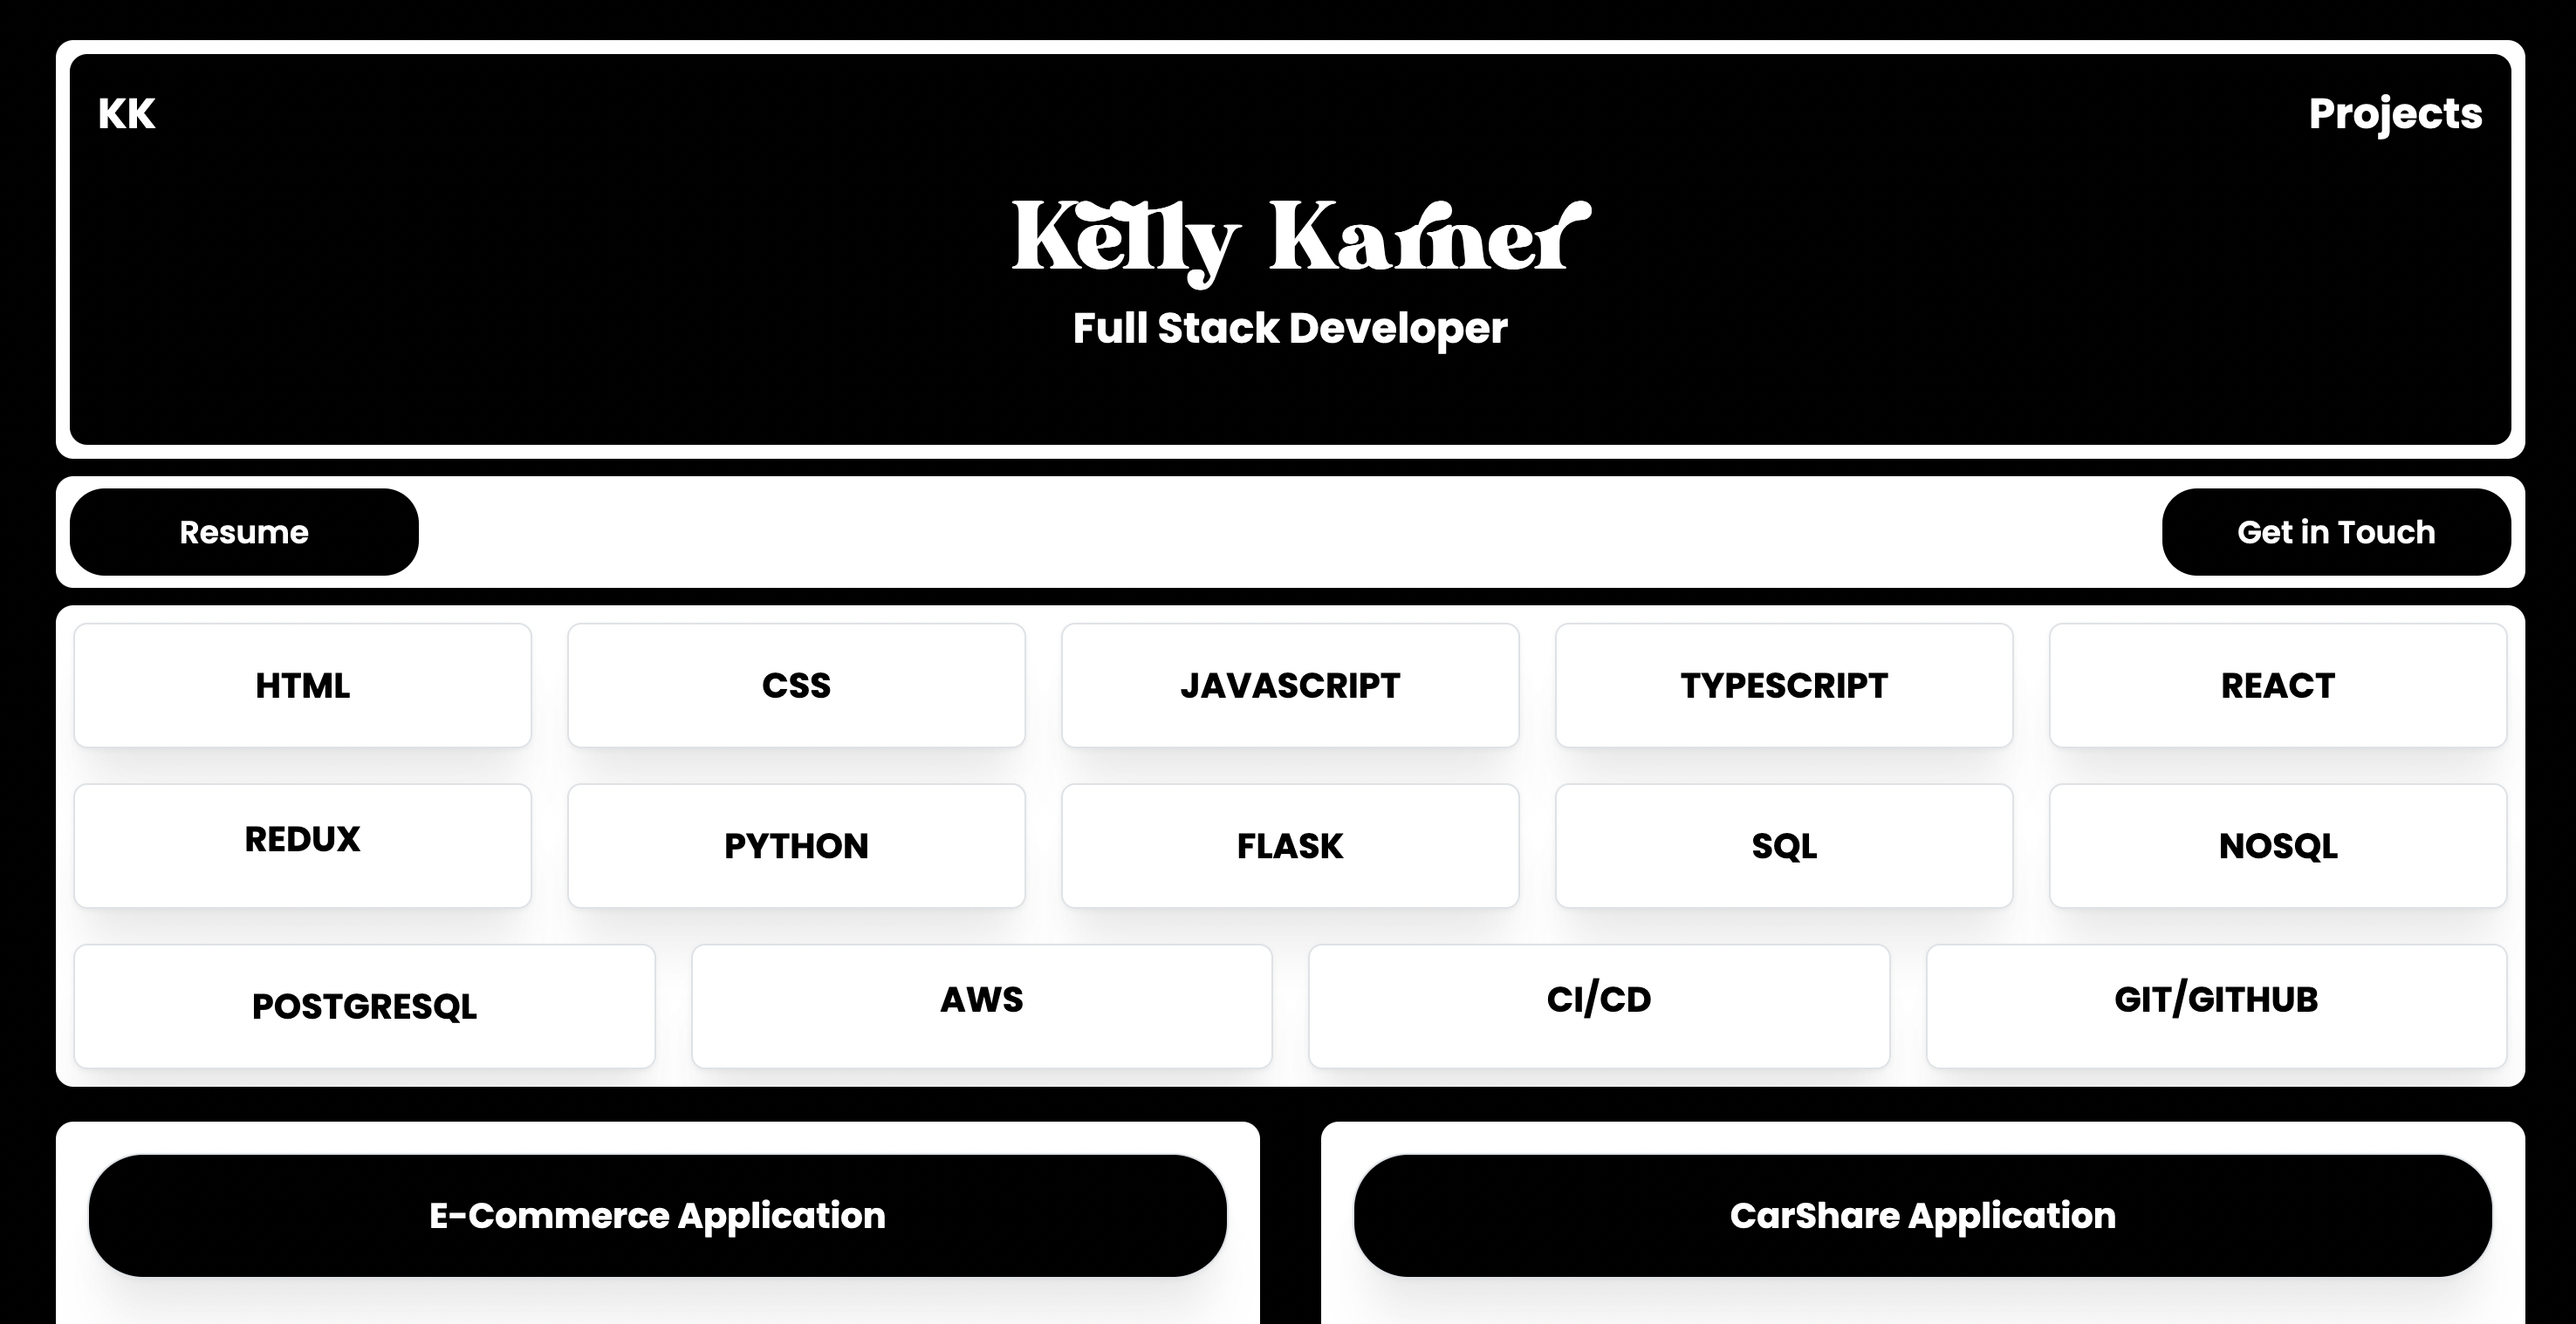
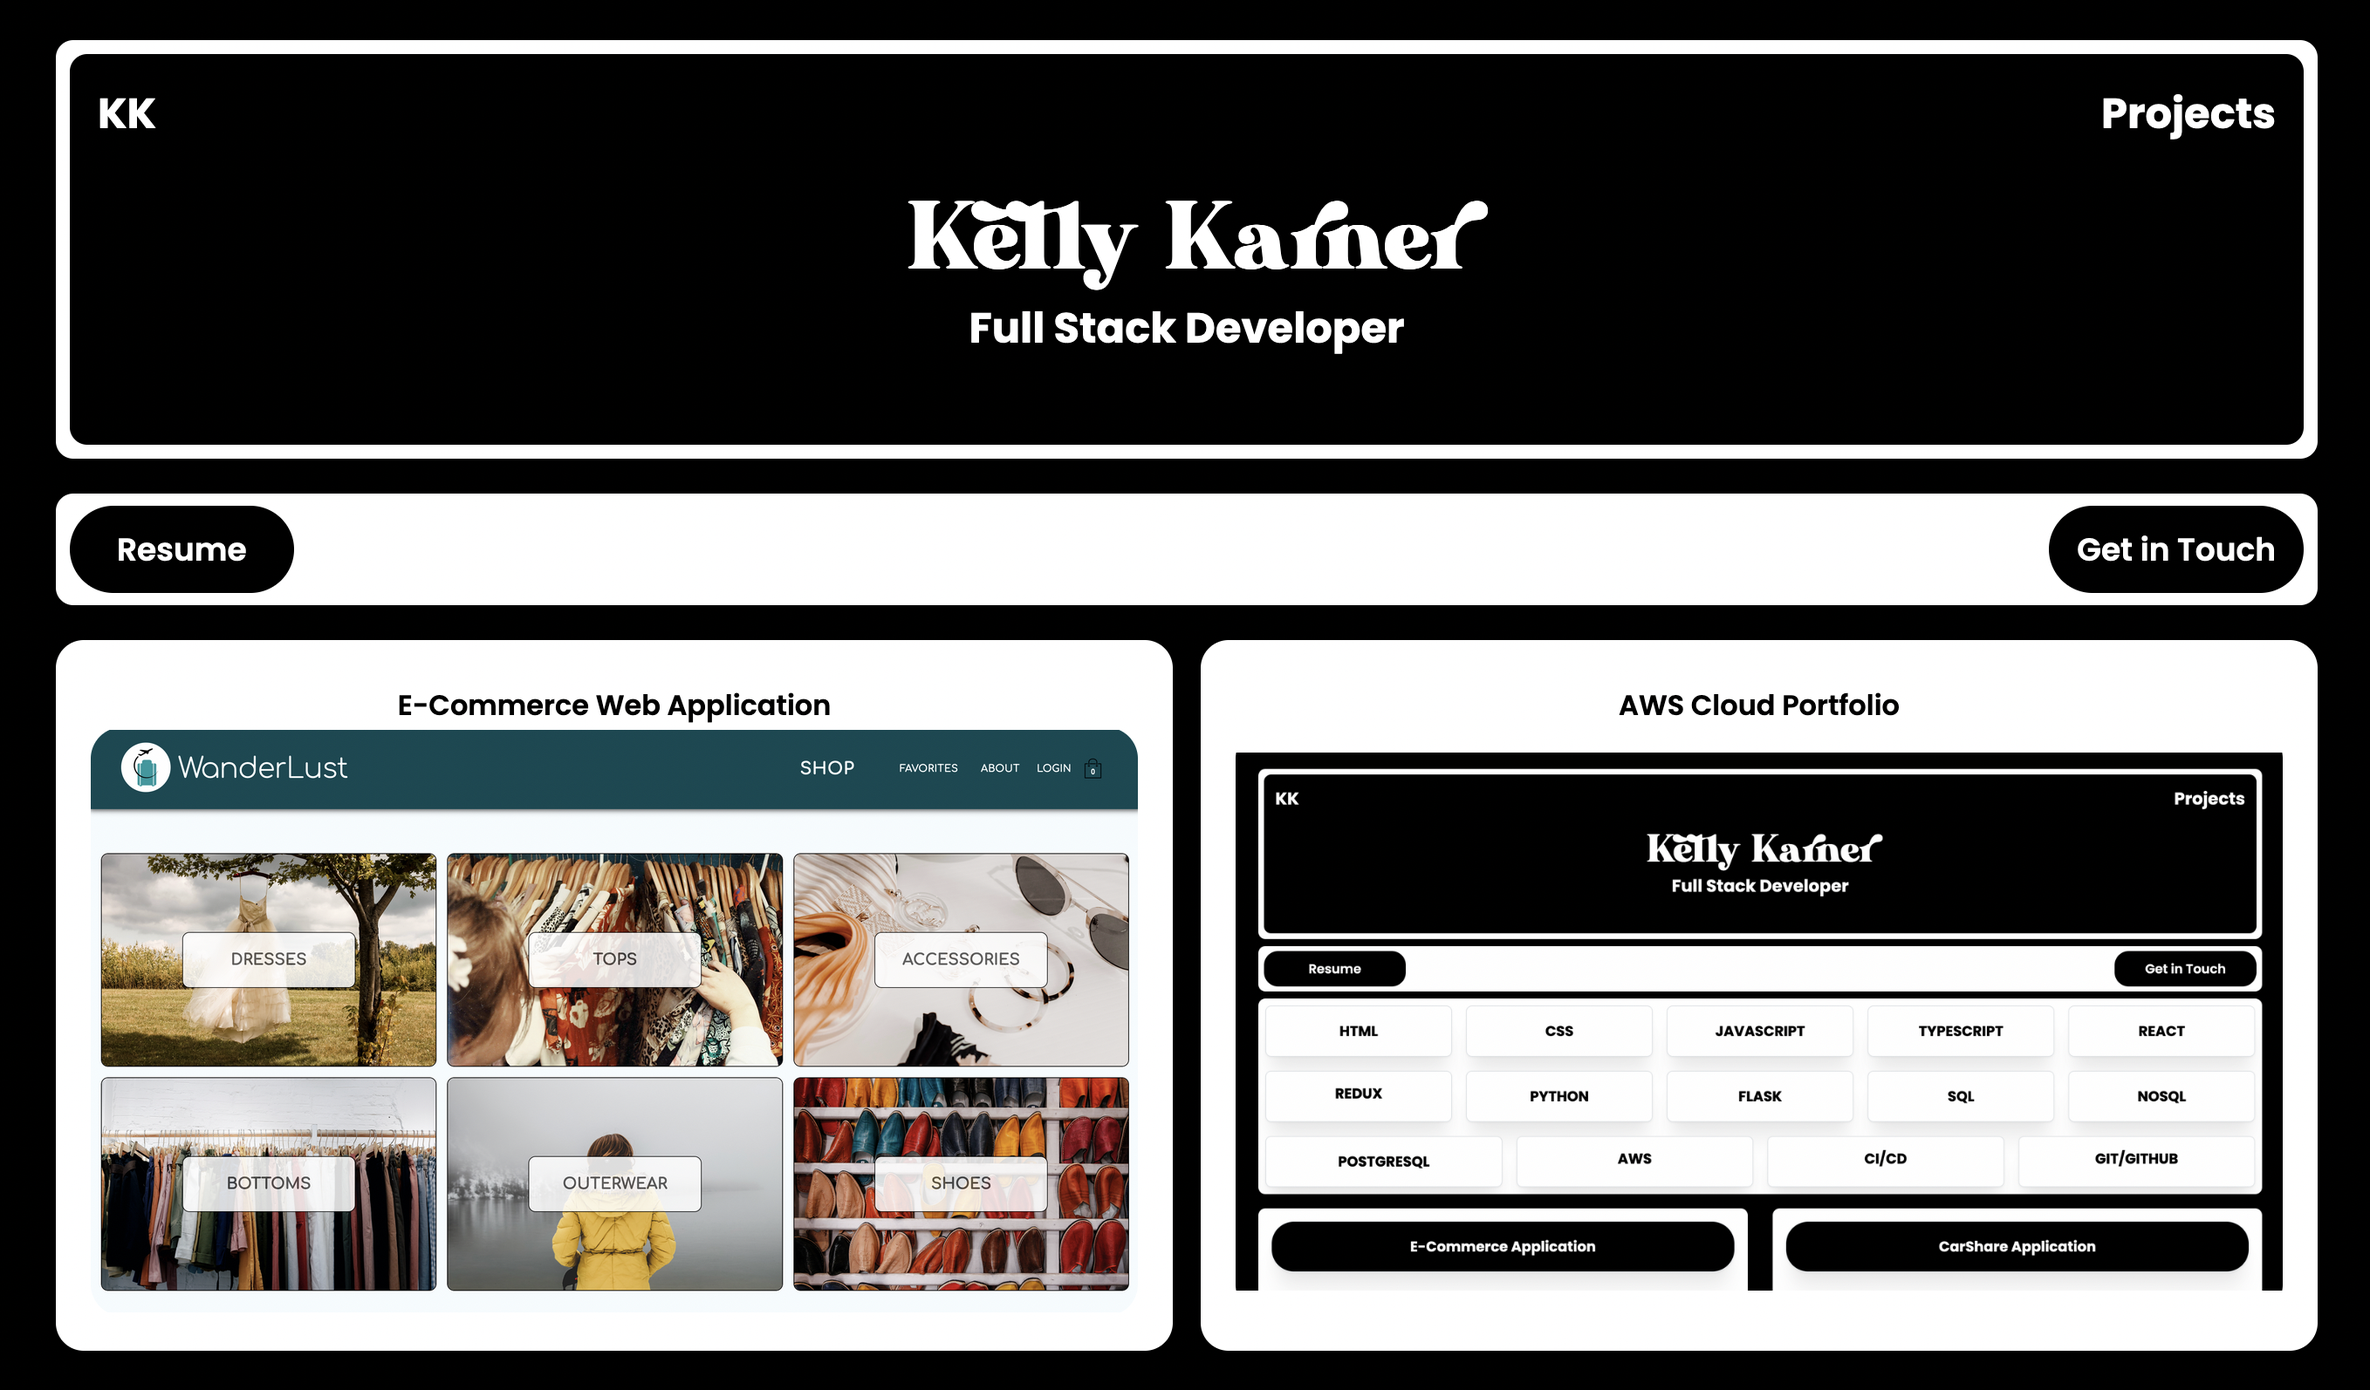
added Contact Form

diff --git a/src/GetInTouch/GetInTouch.tsx b/src/GetInTouch/GetInTouch.tsx
@@ -1,0 +1,139 @@
+import React from 'react';
+import {
+  createStyles,
+  Text,
+  Title,
+  SimpleGrid,
+  TextInput,
+  Textarea,
+  Button,
+  Group,
+  ActionIcon,
+  rem,
+} from '@mantine/core';
+import { IconBrandLinkedin, IconBrandInstagram, IconBrandGithub } from '@tabler/icons-react';
+
+
+const useStyles = createStyles((theme) => ({
+  wrapper: {
+    minHeight: 400,
+    boxSizing: 'border-box',
+    justifyContent: 'center',
+    // backgroundImage: `linear-gradient(-60deg, ${theme.colors[theme.primaryColor][4]} 0%, ${
+    //   theme.colors[theme.primaryColor][7]
+    // } 100%)`,
+    borderRadius: theme.radius.lg,
+    padding: `calc(${theme.spacing.xl} * 2.5) 0`,
+
+    [theme.fn.smallerThan('sm')]: {
+      padding: `calc(${theme.spacing.xl} * 1.5)`,
+    },
+  },
+
+  title: {
+    fontFamily: `Poppins, ${theme.fontFamily}`,
+    color: theme.white,
+    lineHeight: 1,
+  },
+
+  description: {
+    color: theme.colors[theme.primaryColor][0],
+    maxWidth: rem(300),
+
+    [theme.fn.smallerThan('sm')]: {
+      maxWidth: '100%',
+    },
+  },
+
+  form: {
+    backgroundColor: theme.white,
+    padding: theme.spacing.xl,
+    borderRadius: theme.radius.md,
+    boxShadow: theme.shadows.lg,
+  },
+
+  social: {
+    color: theme.white,
+
+    '&:hover': {
+      color: 'aqua',
+    },
+ 
+  },
+
+  input: {
+    backgroundColor: theme.white,
+    borderColor: theme.colors.gray[4],
+    color: theme.black,
+
+    '&::placeholder': {
+      color: theme.colors.gray[5],
+    },
+  },
+
+  inputLabel: {
+    color: theme.black,
+  },
+
+  control: {
+    backgroundColor: 'black',
+    borderRadius: '25px',
+    color: 'white',
+    width: '100%',
+  },
+}));
+
+const social = [IconBrandLinkedin, IconBrandGithub, IconBrandInstagram];
+
+export const GetInTouch = () => {
+  const { classes } = useStyles();
+
+  const icons = social.map((Icon, index) => (
+    <ActionIcon key={index} size={50} className={classes.social} variant="transparent">
+      <Icon size="2.5rem" stroke={2} />
+    </ActionIcon>
+  ));
+  return (
+        <div className={classes.wrapper}>
+      <SimpleGrid cols={2} spacing={50} breakpoints={[{ maxWidth: 'sm', cols: 1 }]}>
+        <div>
+          <Title className={classes.title}>Contact me</Title>
+          <Text className={classes.description} mt="sm" mb={30}>
+            Leave your email and a message, and I will get back to you within 24 hours
+          </Text>
+
+          {/* <ContactIconsList variant="white" /> */}
+
+          <Group mt="xl">{icons}</Group>
+        </div>
+        <div className={classes.form}>
+          <TextInput
+            label="Email"
+            placeholder="your@email.com"
+            required
+            classNames={{ input: classes.input, label: classes.inputLabel }}
+          />
+          <TextInput
+            label="Name"
+            placeholder="Betty Boop"
+            mt="md"
+            classNames={{ input: classes.input, label: classes.inputLabel }}
+          />
+          <Textarea
+            required
+            label="Your message"
+            placeholder="Please type your message here"
+            minRows={4}
+            mt="md"
+            classNames={{ input: classes.input, label: classes.inputLabel }}
+          />
+
+          <Group position="right" mt="md">
+            <Button className={classes.control}>Send message</Button>
+          </Group>
+        </div>
+      </SimpleGrid>
+    </div>
+  )
+}
+

diff --git a/src/App.tsx b/src/App.tsx
@@ -4,61 +4,36 @@ import { about } from './Portfolio';
 import { About } from './About';
 import { Skills } from './Skills';
 import {Contact} from './Contact';
-import {ProjectsContainer} from './ProjectsContainer';
-
-// import { Project1 } from './Project1';
-// import { Project2 } from './Project2';
-
+import { ProjectsContainer } from './ProjectsContainer';
+import { GetInTouch } from './GetInTouch';
+import {Footer} from './Footer';
 import './main.css'
 
 
 const App = () => {
-  
-  // const containerRefs = useRef<(HTMLDivElement | null)[]>([]);
-  // const [activeIndex, setActiveIndex] = useState<number | null>(null);
-  
-  // const handleFocus = (index: number) => {
-  //   if (containerRefs.current[index]) {
-  //     containerRefs.current[index]?.scrollIntoView({
-  //       behavior: 'smooth',
-  //       block: 'start',
-  //     });
-  //     setActiveIndex(index);
-  //   }
-  // };
-  // const theme = useMantineTheme()
-
- 
 
   return (
     <>
       <Grid style={{height: '100vh', margin: '10px'}}>
        
-        <Col xs={12} style={{height: '15rem', backgroundColor: 'white', borderRadius: '10px', marginBottom: '10px'}}>
+        <Col xs={12} style={{height: '15rem', backgroundColor: 'white', borderRadius: '10px', marginBottom: '20px'}}>
           <About />
-     
         </Col>
-
-        <Col xs={12} style={{height: '4rem', backgroundColor: 'white', borderRadius: '10px', marginBottom: '10px'}}>
+        <Col xs={12} style={{height: '4rem', backgroundColor: 'white', borderRadius: '10px'}}>
           <Contact />
         </Col>
-        <Col xs={12} style={{backgroundColor: 'white', borderRadius: '10px', marginBottom: '10px', overflow: 'hidden'}}>
+       
+        <span id="projects-container" style={{justifyContent: 'center', width: '100%', flexWrap: 'wrap'}}>
+          <ProjectsContainer />
+        </span>
+         <Col xs={12} style={{backgroundColor: 'white', borderRadius: '10px', marginTop: '20px', overflow: 'hidden'}}>
           <Skills />
         </Col>
-        <span id="projects-container" style={{justifyContent: 'center', width: '100%', flexWrap: 'wrap'}}>
-     
-          <ProjectsContainer />
 
-       </span>
-
-        <Col xs={12} style={{height: '3rem', backgroundColor: 'black', borderRadius: '10px'}}>
+        <Col xs={12} style={{backgroundColor: 'black', borderRadius: '10px'}}>
+          <GetInTouch />
         </Col>
-     
-
-        
-
       </Grid>
-  
     </>
   )
 }

diff --git a/src/ProjectsContainer/ProjectsContainer.tsx b/src/ProjectsContainer/ProjectsContainer.tsx
@@ -8,7 +8,7 @@ import '../main.css'
 
 const useStyles = createStyles((theme) => ({
   card: {
-    transition: 'transform 150ms ease, box-shadow 150ms ease',
+    transition: 'transform 150ms ease, 150ms ease',
     margin: ' 10px 0 0 0',
 
     '&:hover': {
@@ -20,7 +20,9 @@ const useStyles = createStyles((theme) => ({
   title: {
     fontFamily: `Poppins, ${theme.fontFamily}`,
     fontWeight: 600,
+    fontSize: '1.5rem',
     textAlign: 'center',
+    borderRadius: '25px'
   },
   
 }));
@@ -31,20 +33,20 @@ export const ProjectsContainer = () => {
   const {classes} = useStyles();
 
   const projectCards = projects.map((project) => (
-    <Card id="project-card" key={project.title} p="lg" radius="lg" component="a" href="#" className={classes.card}>
-      <Text className={classes.title} mt={5}>
+    <Card id="project-card" key={project.title} radius="lg" component="a" href="#" className={classes.card}>
+      {/* <Text className={classes.title} mt={5}>
         {project.title}
-        </Text>
-      <AspectRatio ratio={1920 / 1080}>
+        </Text> */}
+      {/* <AspectRatio ratio={1920 / 1080}> */}
         
-        <Image style={{borderRadius: '18px'}} src={project.image} />
-      </AspectRatio>
+        <Image radius="lg" src={project.image} />
+      {/* </AspectRatio> */}
     </Card>
   ))
   return (
     <>
       <div style={{marginTop: '10px'}}>
-      <SimpleGrid cols={2} breakpoints={[{ maxWidth: 'sm', cols: 1 }]}>
+      <SimpleGrid cols={2} breakpoints={[{ maxWidth: 'md', cols: 1 }]}>
         {projectCards}
       </SimpleGrid>
       </div>

diff --git a/src/Portfolio.tsx b/src/Portfolio.tsx
@@ -24,15 +24,6 @@ const projects = [
     livePreview: 'https://github.com',
   },
   {
-    title: 'AWS Cloud Portfolio',
-    image: './src/assets/img/awscloudportfolio.png',
-    description:
-      'Amet asperiores et impedit aliquam consectetur? Voluptates sed a nulla ipsa officia et esse aliquam',
-    stack: ['TypeScript', 'React', 'Mantine', 'CSS', 'Vite'],
-    sourceCode: 'https://github.com/earthbound-misfit/kelly-karner-portfolio',
-    livePreview: 'http://127.0.0.1:5173/',
-  },
-  {
     title: 'CarShare Application',
     image: './src/assets/img/carshare.png',
     description:
@@ -40,6 +31,15 @@ const projects = [
     stack: ['TypeScript', 'React', 'HTML', 'CSS', 'Material UI', 'Python', 'Flask'],
     sourceCode: 'https://github.com/earthbound-misfit/carshare-dashboard',
     livePreview: 'https://classic-carshare-react.firebaseapp.com/',
+  },
+   {
+    title: 'AWS Cloud Portfolio',
+    image: './src/assets/img/awscloudportfolio.png',
+    description:
+      'Amet asperiores et impedit aliquam consectetur? Voluptates sed a nulla ipsa officia et esse aliquam',
+    stack: ['TypeScript', 'React', 'Mantine', 'CSS', 'Vite'],
+    sourceCode: 'https://github.com/earthbound-misfit/kelly-karner-portfolio',
+    livePreview: 'http://127.0.0.1:5173/',
   },
   {
     title: 'BookWorm',

diff --git a/src/Contact/Contact.tsx b/src/Contact/Contact.tsx
@@ -5,11 +5,11 @@ export const Contact = () => {
   return (
     <div style={{display: 'flex', flexDirection: 'row', justifyContent: 'space-between', height: '100%'}}>
       <div style={{alignSelf: 'center', fontSize: '1.4rem'}}>
-        <Button style={{borderRadius: '20px', width: '200px', backgroundColor: 'black'}} size="lg">Resume</Button>
+        <a href="src/assets/pdf/KellyKarner_SoftwareDeveloper_Resume.pdf"><Button className="contact" style={{borderRadius: '25px', backgroundColor: 'black'}} size="lg">Resume</Button></a>
         
       </div>
       <div style={{alignSelf: 'center', fontSize: '1.4rem'}}>
-        <Button style={{borderRadius: '20px', width: '200px', backgroundColor: 'black'}} size="lg" border-radius="20px">Get in Touch</Button>
+        <Button className="contact" style={{borderRadius: '25px', backgroundColor: 'black', padding: '0 15px 0 15px'}} size="lg" border-radius="20px">Get in Touch</Button>
       </div>
 
     </div>

diff --git a/src/index.ts b/src/index.ts
@@ -1,8 +1,7 @@
 export * from './About'
 export * from './Contact'
 export * from './Footer'
-export * from './Project1'
-export * from './Project2'
+export * from './GetInTouch'
 export * from './ProjectsContainer'
 export * from './Skills'
 export * from './ScrollToTop'

diff --git a/src/Footer/Footer.tsx b/src/Footer/Footer.tsx
@@ -1,9 +1,8 @@
 import React from 'react'
 
-const Footer = () => {
+export const Footer = () => {
   return (
     <div>Footer</div>
   )
 }
 
-export default Footer

diff --git a/src/GetInTouch/index.ts b/src/GetInTouch/index.ts
@@ -1,0 +1,1 @@
+export * from './GetInTouch'
